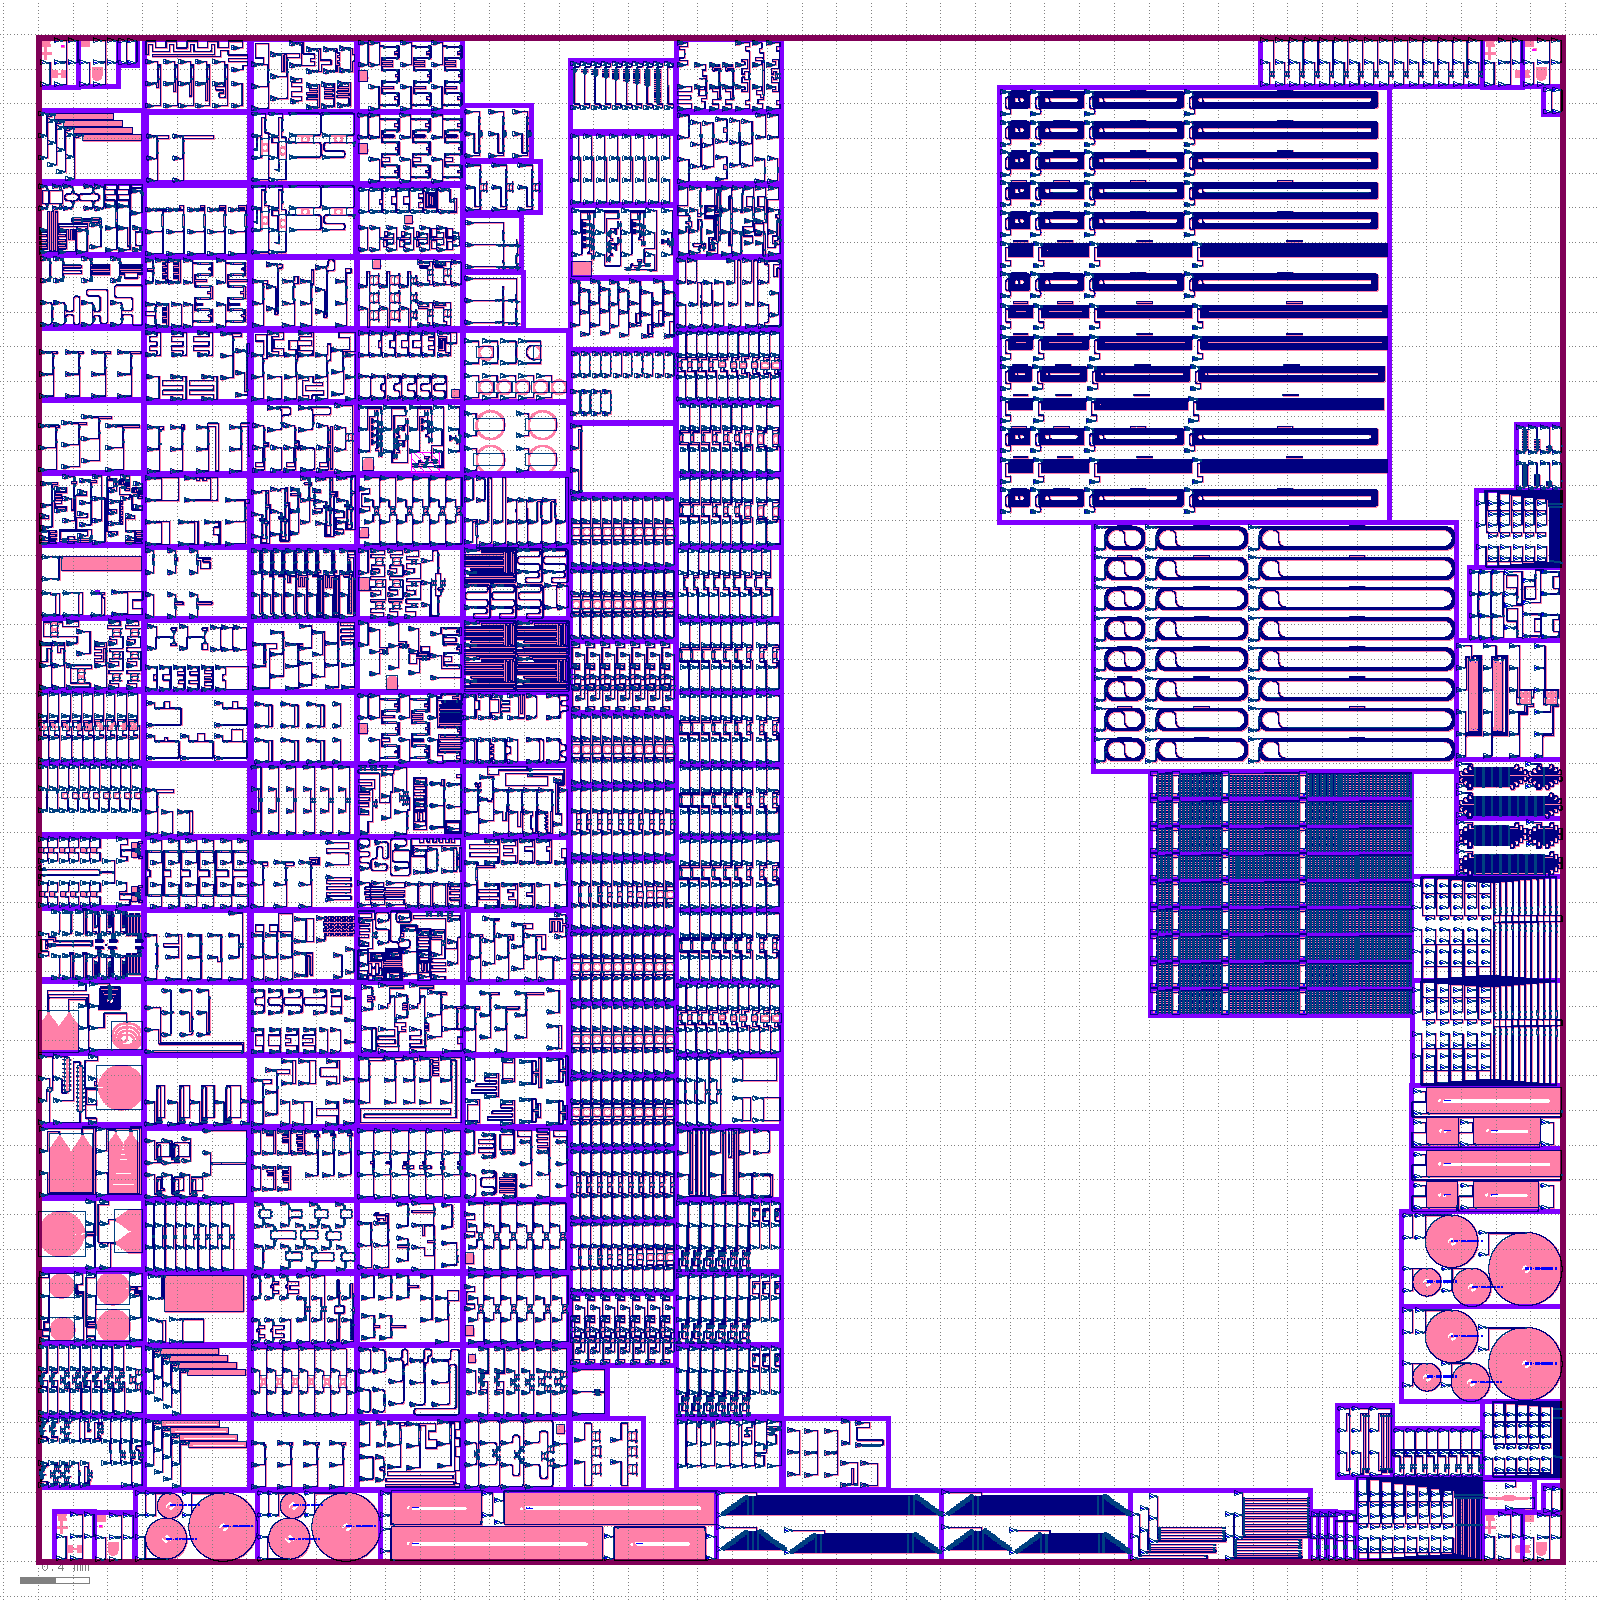
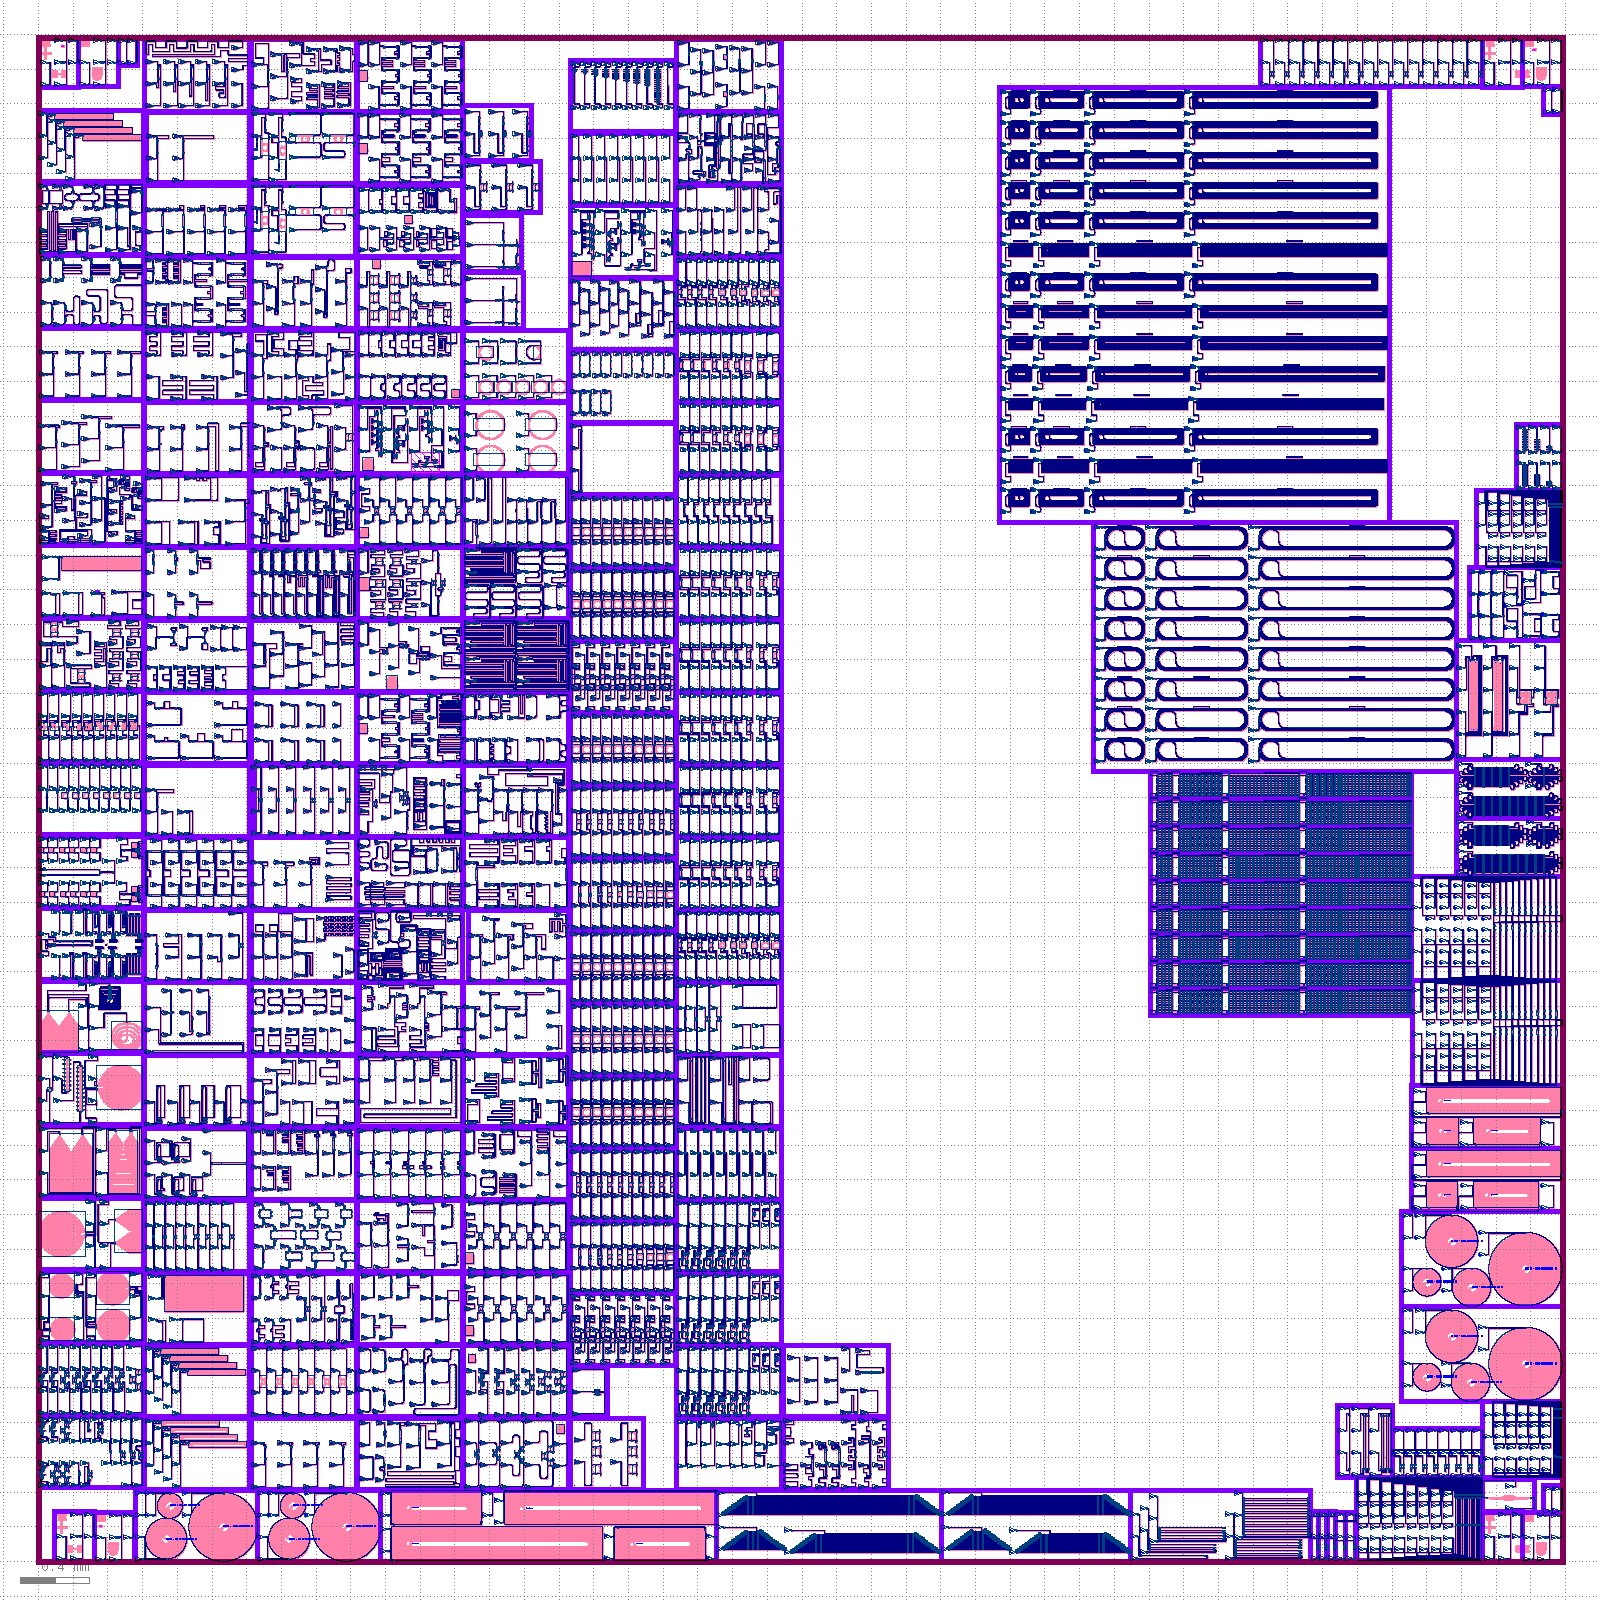
Aggregation layout: https://github.com/SiEPIC/openEBL-2026-05/actions/runs/26039504821/artifacts/7060446772

diff --git a/README.md b/README.md
@@ -91,5 +91,5 @@ Will be added here.
 
 Click on the following link to download the EBeam.oas merged layout file:
 <!-- start-link -->
-https://github.com/SiEPIC/openEBL-2026-05/actions/runs/26033266331/artifacts/7057644989
+https://github.com/SiEPIC/openEBL-2026-05/actions/runs/26039504821/artifacts/7060446772
 <!-- end-link -->